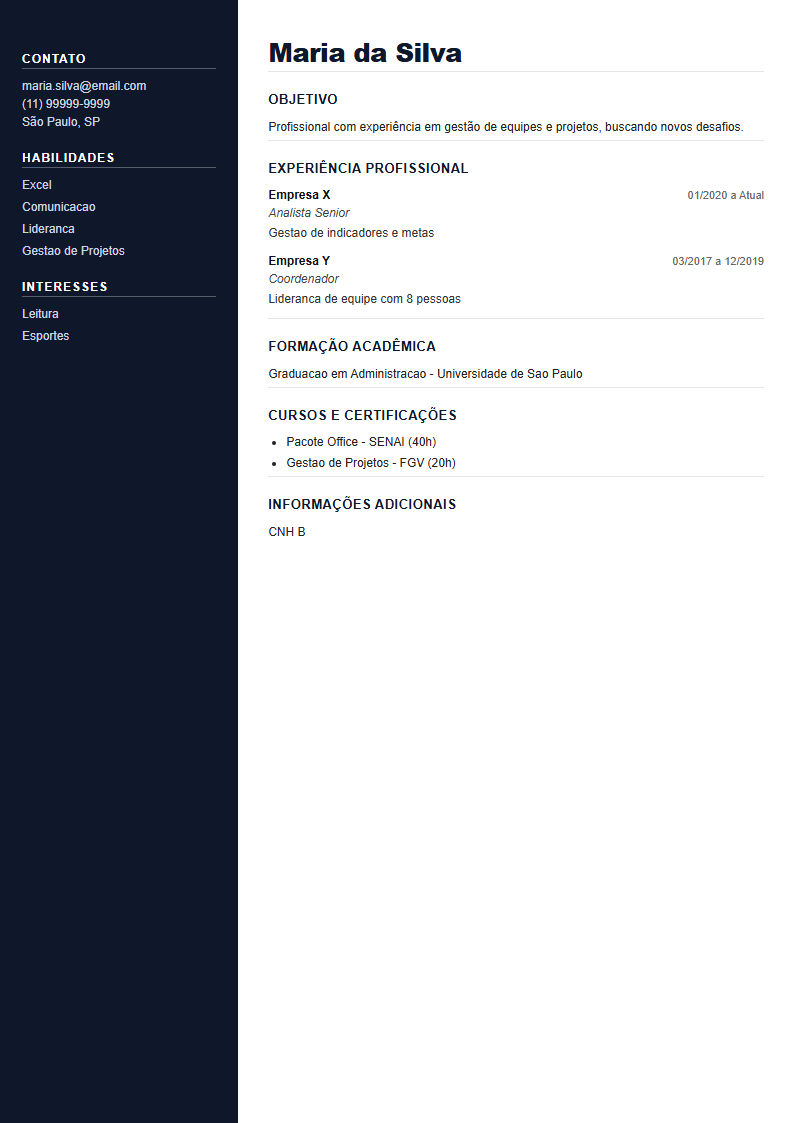
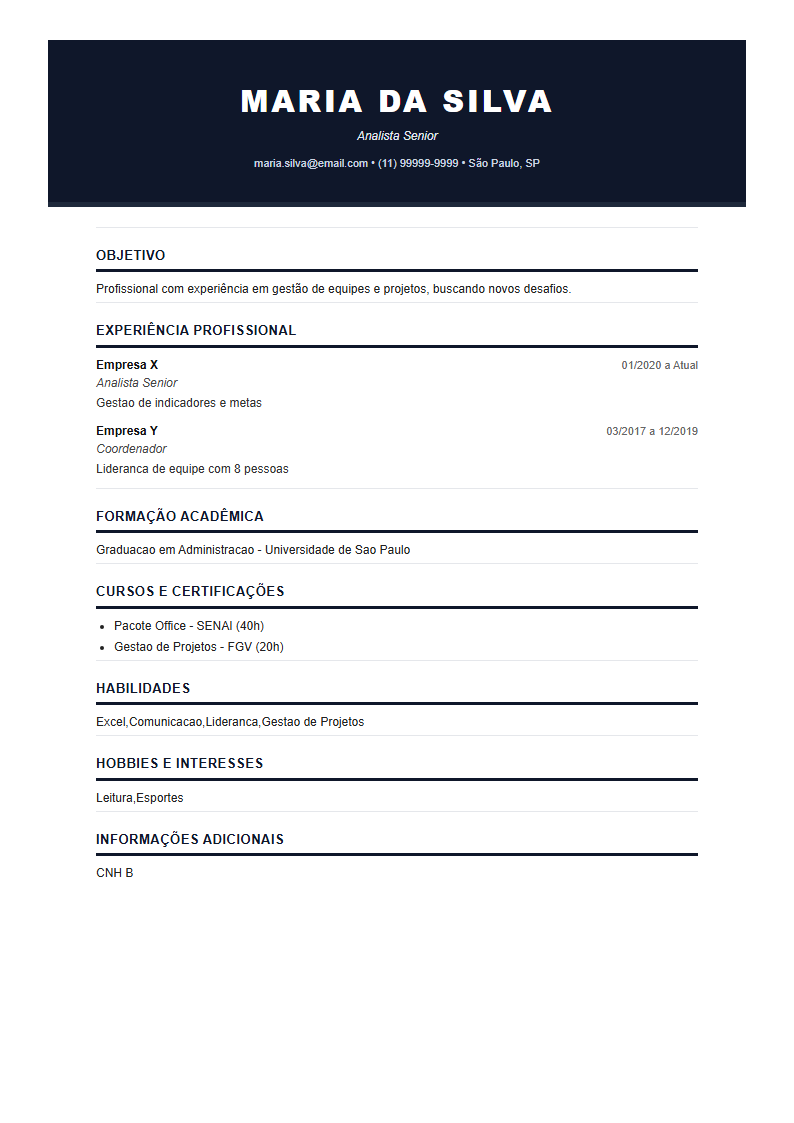
vai

diff --git a/lib/renderHTML.js b/lib/renderHTML.js
@@ -253,24 +253,24 @@ function montarProfissional(dados) {
 }
 
 function montarExecutivo(dados) {
-  const c = ESTILOS.executivo.cor;
   const contato = [];
   if (dados.email) contato.push(esc(dados.email));
   if (dados.telefones.length) contato.push(esc(dados.telefones.join(" / ")));
   if (dados.endereco) contato.push(esc(dados.endereco));
+  const cargo = dados.cargoAtual || (dados.experiencias[0] ? dados.experiencias[0].cargo : "");
   return `
-  <div class="sidebar">
-    <div class="lat-titulo">Contato</div>
-    <div class="lat-contato">${contato.join("<br/>") || ""}</div>
-    ${dados.habilidades ? `<div class="lat-titulo">Habilidades</div><ul class="lat-lista">${listaHabilidades(dados).map((t) => `<li>${esc(t)}</li>`).join("")}</ul>` : ""}
-    ${dados.hobbies ? `<div class="lat-titulo">Interesses</div><ul class="lat-lista">${listaHabilidades({ habilidades: dados.hobbies }).map((t) => `<li>${esc(t)}</li>`).join("")}</ul>` : ""}
-  </div>
-  <div class="main">
+  <div class="cab-exec">
     <h1 class="nome">${esc(dados.nome || "Currículo")}</h1>
+    ${cargo ? `<div class="exec-cargo">${esc(cargo)}</div>` : ""}
+    <div class="exec-contato">${contato.join("   •   ") || ""}</div>
+  </div>
+  <div class="corpo-exec">
     ${secaoObjetivo(dados)}
     ${secaoExperiencia(dados, "exp-item")}
     ${secaoFormacao(dados)}
     ${secaoCursos(dados)}
+    ${secaoHabilidades(dados)}
+    ${secaoHobbies(dados)}
     ${secaoInfo(dados)}
   </div>
 `;
@@ -522,14 +522,13 @@ const CSS = {
     .modelo-profissional h2 { color:#334155; border-bottom:2px solid #334155; padding-bottom:4px; }
   `,
   executivo: `
-    .page { display:flex; padding:0; background:#fff; }
-    .modelo-executivo .sidebar { width:30%; background:#0f172a; color:#fff; padding:32px 22px; }
-    .modelo-executivo .sidebar .lat-titulo { color:#fff; border-bottom:1px solid rgba(255,255,255,0.3); }
-    .modelo-executivo .sidebar .lat-lista, .modelo-executivo .sidebar .lat-contato { color:#cbd5e1; }
-    .modelo-executivo .sidebar .lat-lista { list-style:none; padding:0; margin:0; }
-    .modelo-executivo .main { flex:1; padding:32px 30px; }
-    .modelo-executivo .nome { color:#0f172a; font-size:26px; font-weight:800; letter-spacing:-0.5px; }
-    .modelo-executivo h2 { color:#0f172a; }
+    .page { background:#fff; }
+    .modelo-executivo .cab-exec { background:#0f172a; color:#fff; text-align:center; padding:38px 48px 30px; border-bottom:5px solid #1e293b; }
+    .modelo-executivo .cab-exec .nome { color:#fff; font-size:30px; font-weight:800; text-transform:uppercase; letter-spacing:3px; }
+    .modelo-executivo .exec-cargo { color:#e2e8f0; font-size:12px; font-style:italic; margin-top:4px; }
+    .modelo-executivo .exec-contato { color:#cbd5e1; margin-top:10px; font-size:11px; }
+    .modelo-executivo .corpo-exec { padding:20px 48px 40px; }
+    .modelo-executivo h2 { color:#0f172a; border-bottom:3px solid #0f172a; padding-bottom:4px; }
     .modelo-executivo .sec { border-top:1px solid #e5e7eb; }
   `,
   cronologico: `

diff --git a/public/modelos.html b/public/modelos.html
@@ -12,7 +12,7 @@
     .hero-modelos h1 { font-size: clamp(1.8rem, 4vw, 2.6rem); font-weight: 900; }
     .hero-modelos p { color: var(--text-muted); max-width: 620px; margin: 12px auto 0; }
     .preco-badge { display: inline-block; margin-top: 16px; background: rgba(255,136,0,0.15); border: 1px solid rgba(255,136,0,0.4); color: var(--brand-light); padding: 8px 20px; border-radius: 50px; font-weight: 700; }
-    .preview-box.mini { padding: 0; }
+    .preview-box.mini { padding: 0; aspect-ratio: 210 / 297; height: auto; }
     .mini-img { width: 100%; height: 100%; object-fit: cover; display: block; border-radius: 10px; }
   </style>
 </head>
